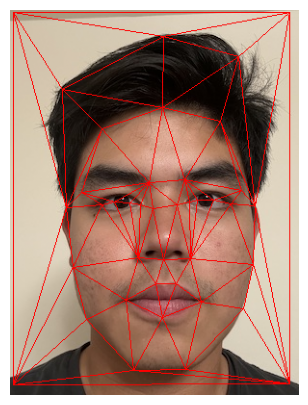
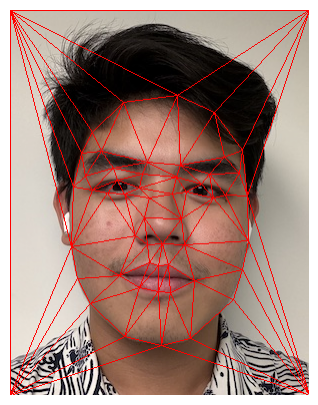
made the randall bit more effort

diff --git a/proj3/index.html b/proj3/index.html
@@ -103,8 +103,7 @@
     weight from 0 to 1.
   </p>
   <p>Here is what the completed morph looks like in video form.</p>
-  <iframe width="479" height="851" src="https://www.youtube.com/embed/1fIB_eVIwxg" title="me to randall" frameborder="0" allow="accelerometer; autoplay; clipboard-write; encrypted-media; gyroscope; picture-in-picture; web-share" referrerpolicy="strict-origin-when-cross-origin" allowfullscreen></iframe>
-  
+  <iframe width="479" height="851" src="https://www.youtube.com/embed/onEm1H-PqhI" title="owen to randall" frameborder="0" allow="accelerometer; autoplay; clipboard-write; encrypted-media; gyroscope; picture-in-picture; web-share" referrerpolicy="strict-origin-when-cross-origin" allowfullscreen></iframe>
   <h3>Part 4: The Mean Face</h3>
   <p>
     I downloaded the Danes face dataset to gain access to 40 different people's faces and respective correspondences. I calculated the 
